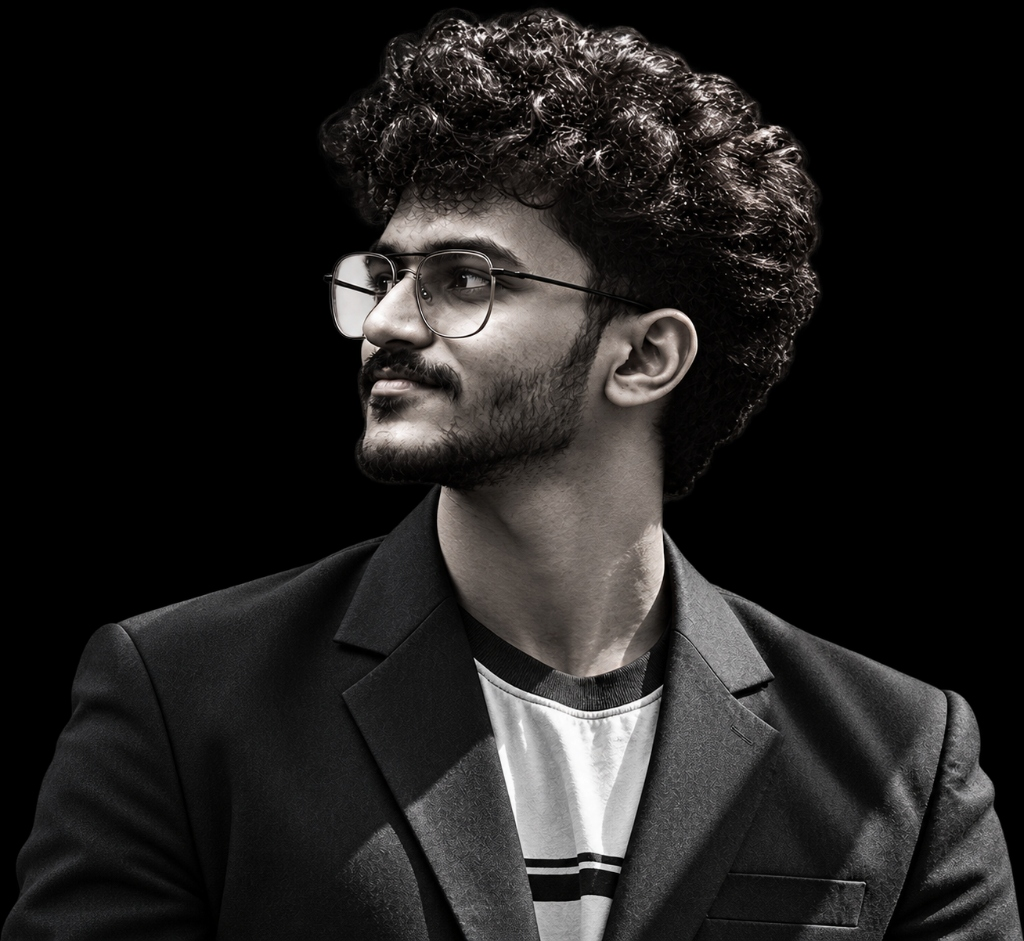
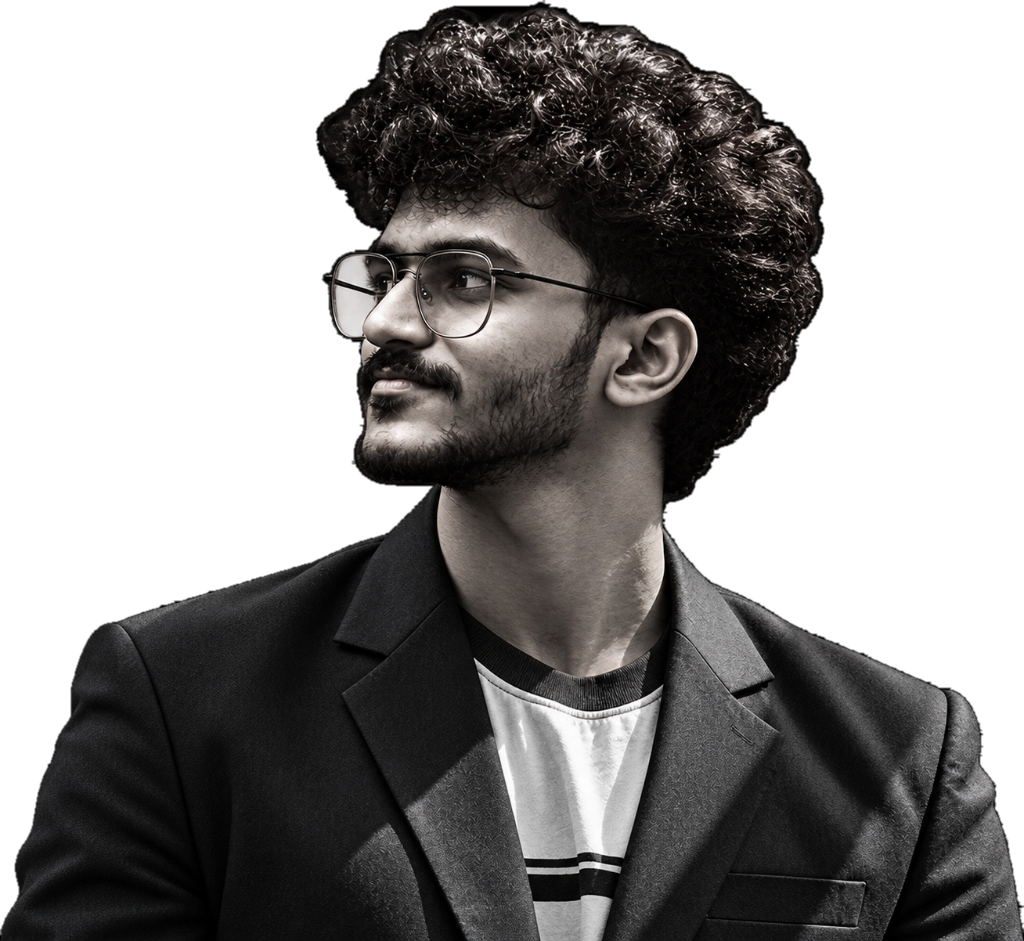
feat(hero): integrate pristine backgroundless cutout portrait with grand scaled AKASH typography

diff --git a/src/sections/HeroProfile.tsx b/src/sections/HeroProfile.tsx
@@ -94,7 +94,7 @@ export const HeroProfile: React.FC<HeroProfileProps> = ({ onOpenContact }) => {
         {/* Top Segment: Editorial 'A K A S H' Typography Row spanning container */}
         <div
           ref={akashTextRef}
-          className="relative w-full flex items-center justify-between font-serifDisplay font-black text-[13.5vw] lg:text-[13vw] xl:text-[140px] 2xl:text-[160px] leading-none tracking-tight select-none pointer-events-none z-10 pt-2 xl:pt-4 will-change-transform"
+          className="relative w-full flex items-center justify-between font-serifDisplay font-black text-[16vw] lg:text-[15.5vw] xl:text-[175px] 2xl:text-[200px] leading-none tracking-tight select-none pointer-events-none z-10 pt-1 xl:pt-2 will-change-transform"
         >
           {/* A (First): Solid White */}
           <span className="text-white drop-shadow-[0_12px_35px_rgba(0,0,0,0.9)]">A</span>
@@ -117,9 +117,9 @@ export const HeroProfile: React.FC<HeroProfileProps> = ({ onOpenContact }) => {
           ref={portraitRef}
           className="absolute inset-x-0 bottom-0 top-0 flex items-end justify-center pointer-events-none select-none z-20 will-change-transform"
         >
-          <div className="relative flex items-end justify-center h-full max-h-[66vh] xl:max-h-[72vh] 2xl:max-h-[76vh] w-auto">
+          <div className="relative flex items-end justify-center h-full max-h-[78vh] xl:max-h-[84vh] 2xl:max-h-[88vh] w-auto">
             <img
-              src="/images/akash-hero-portrait.jpg"
+              src="/images/akash-hero-portrait.png"
               alt="Akash - Full Stack Web Developer"
               className="h-full w-auto max-w-full object-contain object-bottom select-none"
             />
@@ -197,10 +197,10 @@ export const HeroProfile: React.FC<HeroProfileProps> = ({ onOpenContact }) => {
       <div className="flex lg:hidden flex-col flex-1 min-h-0 justify-between w-full px-4 sm:px-8 md:px-12 overflow-y-auto">
         
         {/* Visual Stage: Akash Portrait with Editorial AKASH Typography */}
-        <div className="relative w-full h-[40vh] sm:h-[46vh] md:h-[50vh] flex items-end justify-center overflow-hidden my-1 shrink-0">
+        <div className="relative w-full h-[46vh] sm:h-[52vh] md:h-[58vh] flex items-end justify-center overflow-hidden my-1 shrink-0">
           
           {/* Background Typography behind photo */}
-          <div className="absolute bottom-[20%] sm:bottom-[22%] inset-x-0 z-10 flex items-center justify-between font-serifDisplay font-black text-[18vw] sm:text-[16vw] leading-none tracking-tight pointer-events-none select-none px-2">
+          <div className="absolute bottom-[20%] sm:bottom-[22%] inset-x-0 z-10 flex items-center justify-between font-serifDisplay font-black text-[21vw] sm:text-[19vw] leading-none tracking-tight pointer-events-none select-none px-2">
             <span className="text-white">A</span>
             <span className="text-white">K</span>
             <span className="text-stroke-white">A</span>
@@ -211,7 +211,7 @@ export const HeroProfile: React.FC<HeroProfileProps> = ({ onOpenContact }) => {
           {/* Centered Cutout Portrait */}
           <div className="relative z-20 h-full w-auto flex items-end justify-center">
             <img
-              src="/images/akash-hero-portrait.jpg"
+              src="/images/akash-hero-portrait.png"
               alt="Akash - Full Stack Web Developer"
               className="h-full w-auto object-contain object-bottom select-none"
             />

diff --git a/docs/TASKS.md b/docs/TASKS.md
@@ -7,7 +7,7 @@
 - `COMPLETED`
 
 ## Current module
-Module 69: Streamline Landing Hero - Bio Narrative & Bottom Telemetry Bar Decommissioning
+Module 70: Pristine Silhouette Cutout Generation & Grand Editorial Typography Scaling
 
 ## Task list
 
@@ -82,6 +82,7 @@ Module 69: Streamline Landing Hero - Bio Narrative & Bottom Telemetry Bar Decomm
 | 67 | Exact User-Provided Portrait Image Ingestion | Ingested user's newly uploaded exact isolated portrait image (`media_1792773869648_54083a6e.jpg`) directly into public and dist assets with untouched RGB pixel fidelity; removed artificial CSS contrast filters to preserve exact tones | COMPLETED | Pure black [0,0,0] background seamless integration, exact curly hair and glasses details preserved, verified build |
 | 68 | Elimination of Neck Artifacts & Direct Authentic Asset Display | Diagnosed dark honeycomb/mesh holes on neck caused by aggressive flood-fill alpha masking leaking into collar shadows; eliminated transparency holes and switched directly to the authentic untouched user asset | COMPLETED | Restored flawless solid neck and throat skin tones with 0 holes, seamless black background blend, verified 100vh layout with intact Bodoni Moda AKASH typography |
 | 69 | Hero Bio & Bottom Stack Telemetry Decommissioning | Removed bio paragraph ("I am a full stack web developer...") leaving solely DEPLOY CONTRACT on left flank; removed bottom telemetry bar ("MERN // GEMINI API // SUPABASE // AWS EC2") | COMPLETED | Clean, high-impact minimalist landing hero; DEPLOY CONTRACT sits prominently on left; right telemetry stack intact; tested across 1080p, 768p laptop, and mobile |
+| 70 | Silhouette Cutout & Grand Typography Scaling | Reconstructed 100% backgroundless transparent cutout PNG with solid [c_min, c_max] row mask (zero holes, zero black box occluding K, A, S); scaled up portrait image and Bodoni Moda AKASH typography across desktop and mobile | COMPLETED | Clean transparency outside subject allows AKASH typography to shine through unobstructed; scaled AKASH to text-[16vw]/[15.5vw]/[175px]/[200px] on desktop and text-[21vw] on mobile; portrait max-h expanded to 78vh-88vh; verified build |
 
 ## Current blockers
 - None.

diff --git a/docs/MEMORY.md b/docs/MEMORY.md
@@ -4,7 +4,7 @@ This file is the persistent handoff record for the project.
 
 ## Current state
 - Current phase: Development & Verification Complete
-- Current module: Completed Modules 1–69
+- Current module: Completed Modules 1–70
 - Overall status: Ready for Review & Deployment
 
 ## Last completed work
@@ -145,6 +145,13 @@ This file is the persistent handoff record for the project.
      - Removed the entire bio paragraph ("I am a full stack web developer currently working at Nrithya Dances...") from desktop and mobile views, keeping exclusively the yellow `DEPLOY CONTRACT` action button on the left flank.
      - Removed the bottom telemetry bar ("MERN // GEMINI API // SUPABASE // AWS EC2") and its border container.
      - Enhanced vertical breathing room and aesthetic balance across desktop, laptop (1366x768), and mobile viewports.
+  36. Silhouette Cutout & Grand Typography Scaling (Module 70):
+     - Reconstructed a 100% backgroundless, transparent cutout PNG (`akash-hero-portrait.png`) by deriving row-by-row silhouette bounds `[c_min, c_max]` from the high-res uploaded image (`media_1792775421630_3245a889.jpg`).
+     - Inside the silhouette: 100% solid alpha with untouched RGB, completely preventing any neck or throat transparency leaks.
+     - Outside the silhouette: 100% transparent alpha with 1px smooth antialiasing, completely eliminating the black rectangular box that previously occluded the letters `K`, `A`, and `S`.
+     - Scaled up the Bodoni Moda serif `AKASH` typography to `text-[16vw] lg:text-[15.5vw] xl:text-[175px] 2xl:text-[200px]` on desktop and `text-[21vw]` on mobile for massive editorial presence.
+     - Scaled up the portrait height dynamically to `max-h-[78vh] xl:max-h-[84vh] 2xl:max-h-[88vh]` on desktop and `h-[46vh] sm:h-[52vh] md:h-[58vh]` on mobile.
+     - Verified with Playwright across 1080p, 768p laptop, and mobile; production build passed with 0 errors.
 - Connected GitHub remote: `https://github.com/akashad123/akash-portfolio.git` and pushed branch `main`.
 
 ## In-progress work
